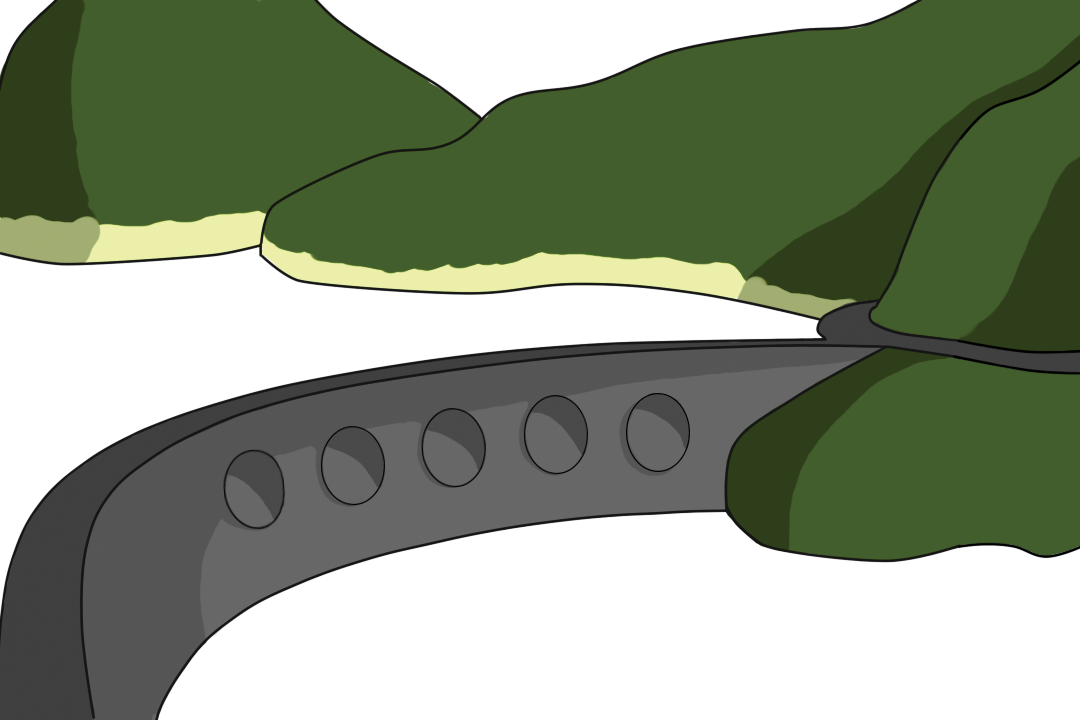
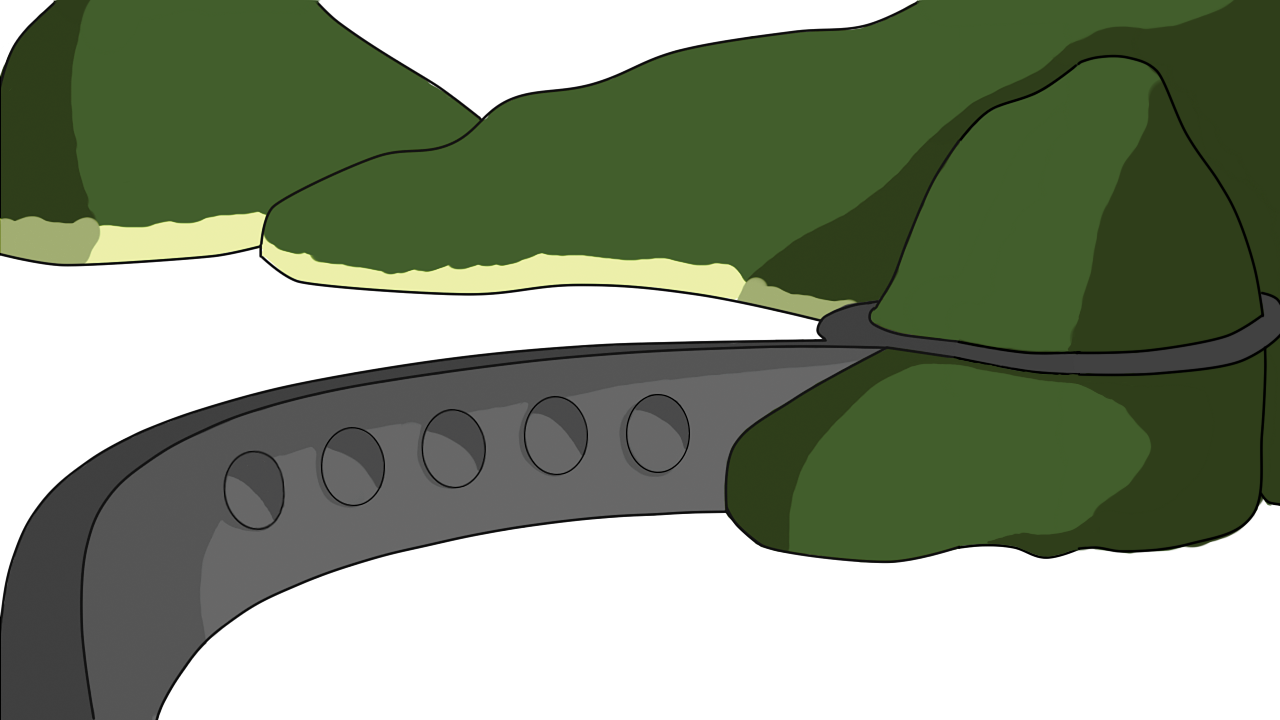
Víz

diff --git a/core/src/hu/cehessteg/vizeromu/GlobalClasses/Fuggvenyek.java b/core/src/hu/cehessteg/vizeromu/GlobalClasses/Fuggvenyek.java
@@ -2,6 +2,9 @@ package hu.cehessteg.vizeromu.GlobalClasses;
 
 import com.badlogic.gdx.physics.box2d.World;
 import com.badlogic.gdx.scenes.scene2d.Actor;
+import com.badlogic.gdx.utils.GdxRuntimeException;
+
+import java.util.Random;
 
 import hu.cehessteg.vizeromu.Actor.Vizcsepp;
 import hu.cehessteg.vizeromu.ParentClasses.Box2dWorld.WorldActorGroup;
@@ -34,9 +37,9 @@ public class Fuggvenyek {
                 WorldActorGroup vizcsepp2 = new Vizcsepp(world);
                 if(vizcsepp2 == null) return;
                 vizcsepp2.addToWorld();
-                vizcsepp2.setPosition((float)(Math.random() * stage.getViewport().getWorldWidth()),stage.getViewport().getWorldHeight()+1);
+                vizcsepp2.setPosition((float) (Math.random()*10.3f),stage.getViewport().getWorldHeight()+1);
                 stage.addActor(vizcsepp2);
-                vizcsepp2.setZIndex(5);
+                vizcsepp2.setZIndex(2);
                 pElapsedTime = elapsedTime;
 
             }
@@ -44,14 +47,25 @@ public class Fuggvenyek {
 
         private static void removeVizcsepp(MyStage stage)
         {
-            for (Actor actor : stage.getActors()) {
-                if (actor instanceof Vizcsepp) {
-                    if(actor.getY() < -actor.getHeight())//Ne egyből tűnjön el, legyen egy kis átmenet
-                    {
-                        if(actor == null) return;
-                        ((WorldActorGroup) actor).remove();
+            try {
+                for (Actor actor : stage.getActors()) {
+                    if (actor == null) return;
+                    else {
+                        if (actor instanceof Vizcsepp) {
+                            if (actor.getY() < 3.6)
+                            {
+                                actor.remove();
+                            }
+                        }
                     }
                 }
+            }
+            catch (GdxRuntimeException e) {
+                e.printStackTrace();
+            }
+            catch (NullPointerException e)
+            {
+                e.printStackTrace();
             }
         }
 }

diff --git a/core/src/hu/cehessteg/vizeromu/Stage/GameStage.java b/core/src/hu/cehessteg/vizeromu/Stage/GameStage.java
@@ -5,6 +5,9 @@ import com.badlogic.gdx.math.Vector2;
 import com.badlogic.gdx.physics.box2d.World;
 import com.badlogic.gdx.utils.viewport.Viewport;
 
+import hu.cehessteg.vizeromu.Actor.Gat;
+import hu.cehessteg.vizeromu.Actor.GatAlja;
+import hu.cehessteg.vizeromu.Actor.Viz;
 import hu.cehessteg.vizeromu.GlobalClasses.Matek;
 import hu.cehessteg.vizeromu.ParentClasses.Game.MyGame;
 import hu.cehessteg.vizeromu.ParentClasses.Scene2D.MyStage;
@@ -13,21 +16,33 @@ import static hu.cehessteg.vizeromu.GlobalClasses.Fuggvenyek.vizcseppThread;
 
 public class GameStage extends MyStage {
     World world;
-    Matek matek;
-    //WorldBodyEditorLoader loader;
+    public static Matek matek;
+    Gat gat;
+    GatAlja gatAlja;
+    Viz viz;
 
     public GameStage(Viewport viewport, Batch batch, MyGame game) {
         super(viewport, batch, game);
         assignment();
+        addActors();
     }
 
     void assignment()
     {
-        System.out.println("World Width: " + getViewport().getWorldWidth());
-        System.out.println("World Height: " + getViewport().getWorldHeight());
         world = new World(new Vector2(0,-1), false);
         matek = new Matek();
-        //loader = new WorldBodyEditorLoader(Gdx.files.internal("fizika"));
+        gat = new Gat();
+        gatAlja = new GatAlja();
+        viz = new Viz();
+    }
+
+    void addActors()
+    {
+        addActor(viz);
+        addActor(gat);
+        addActor(gatAlja);
+        gat.setZIndex(1);
+        gatAlja.setZIndex(3);
     }
 
     @Override

diff --git a/core/src/hu/cehessteg/vizeromu/GlobalClasses/Assets.java b/core/src/hu/cehessteg/vizeromu/GlobalClasses/Assets.java
@@ -51,6 +51,8 @@ public class Assets {
     public static final AssetDescriptor<Texture> MAXVIZ = new AssetDescriptor<Texture>("colors/maxViz.png", Texture.class);
     public static final AssetDescriptor<Texture> GOMB_HATTER = new AssetDescriptor<Texture>("colors/gombhatter1.png", Texture.class);
     public static final AssetDescriptor<Texture> GOMB_HATTER2 = new AssetDescriptor<Texture>("colors/gombhatter2.png", Texture.class);
+    public static final AssetDescriptor<Texture> GAT = new AssetDescriptor<Texture>("gat.png", Texture.class);
+    public static final AssetDescriptor<Texture> GAT_ALJA = new AssetDescriptor<Texture>("gat_alja.png", Texture.class);
 
     public static void prepare() {
 		manager = new AssetManager();
@@ -83,6 +85,8 @@ public class Assets {
         manager.load(MAXVIZ);
         manager.load(GOMB_HATTER);
         manager.load(GOMB_HATTER2);
+        manager.load(GAT);
+        manager.load(GAT_ALJA);
 	}
 
     public static void afterLoaded() {

diff --git a/core/src/hu/cehessteg/vizeromu/Actor/Viz.java b/core/src/hu/cehessteg/vizeromu/Actor/Viz.java
@@ -1,0 +1,19 @@
+package hu.cehessteg.vizeromu.Actor;
+
+import hu.cehessteg.vizeromu.GlobalClasses.Assets;
+import hu.cehessteg.vizeromu.ParentClasses.Scene2D.OneSpriteStaticActor;
+import static hu.cehessteg.vizeromu.Stage.GameStage.matek;
+
+public class Viz extends OneSpriteStaticActor {
+    public Viz() {
+        super(Assets.manager.get(Assets.VIZ));
+        setWidth(Assets.manager.get(Assets.GAT).getWidth()/80.0f);
+        setDebug(false);
+    }
+
+    @Override
+    public void act(float delta) {
+        super.act(delta);
+        setHeight((6.0f/matek.getMaxviz())*matek.getVizmennyiseg());
+    }
+}

diff --git a/core/src/hu/cehessteg/vizeromu/GlobalClasses/Matek.java b/core/src/hu/cehessteg/vizeromu/GlobalClasses/Matek.java
@@ -61,6 +61,7 @@ public class Matek {
         else {
             if (sec == 0 && rnd.nextInt(100) == 13) { eso = false; } //eso megered 1% eséllyel.
         }
+        opencounter();
         vizmennyiseg += beviz;
         vizmennyiseg -= kiviz * openek;
         //ido
@@ -83,6 +84,14 @@ public class Matek {
 
     public boolean isVolteso() {
         return volteso;
+    }
+
+    public float getVizmennyiseg() {
+        return vizmennyiseg;
+    }
+
+    public int getMaxviz() {
+        return maxviz;
     }
 }
 

diff --git a/core/src/hu/cehessteg/vizeromu/Actor/GatAlja.java b/core/src/hu/cehessteg/vizeromu/Actor/GatAlja.java
@@ -1,0 +1,13 @@
+package hu.cehessteg.vizeromu.Actor;
+
+import hu.cehessteg.vizeromu.GlobalClasses.Assets;
+import hu.cehessteg.vizeromu.ParentClasses.Scene2D.OneSpriteStaticActor;
+
+public class GatAlja extends OneSpriteStaticActor {
+    public GatAlja() {
+        super(Assets.manager.get(Assets.GAT_ALJA));
+        setDebug(false);
+        setSize(getWidth()/80.0f,getHeight()/80.0f);
+        //Ő azért kell, hogy a gát mögött és a hegyek előtt legyenek a vízcseppek
+    }
+}

diff --git a/core/src/hu/cehessteg/vizeromu/Actor/Vizcsepp.java b/core/src/hu/cehessteg/vizeromu/Actor/Vizcsepp.java
@@ -19,11 +19,11 @@ public class Vizcsepp extends WorldActorGroup {
         getFixtureDef().restitution = 0.5f; // Pattanás
 
         OneSpriteStaticActor water = new OneSpriteStaticActor(Assets.manager.get(Assets.VIZ_TEXTURE));
-        water.setSize(0.2f,0.2f);
+        water.setSize(0.1f,0.1f);
         water.setDebug(false);
 
         addActor(water);
-        setSize(0.2f,0.2f);
+        setSize(0.1f,0.1f);
         setColor(0,0,255,1);
     }
 }

diff --git a/core/src/hu/cehessteg/vizeromu/Actor/Gat.java b/core/src/hu/cehessteg/vizeromu/Actor/Gat.java
@@ -1,0 +1,13 @@
+package hu.cehessteg.vizeromu.Actor;
+
+import hu.cehessteg.vizeromu.GlobalClasses.Assets;
+import hu.cehessteg.vizeromu.ParentClasses.Scene2D.OneSpriteStaticActor;
+
+public class Gat extends OneSpriteStaticActor {
+    public Gat() {
+        super(Assets.manager.get(Assets.GAT));
+        setPosition(0,0);
+        setSize(getWidth()/80,getHeight()/80);
+        setDebug(false);
+    }
+}

diff --git a/desktop/src/hu/cehessteg/vizeromu/desktop/DesktopLauncher.java b/desktop/src/hu/cehessteg/vizeromu/desktop/DesktopLauncher.java
@@ -15,7 +15,7 @@ public class DesktopLauncher {
 		LwjglApplicationConfiguration config = new LwjglApplicationConfiguration();
 		new LwjglApplication(new Vizeromu(), config);
 		config.width = 1280;
-		config.height = 360;
+		config.height = 720;
 		config.vSyncEnabled = true;
 		config.fullscreen = false;
 	}
